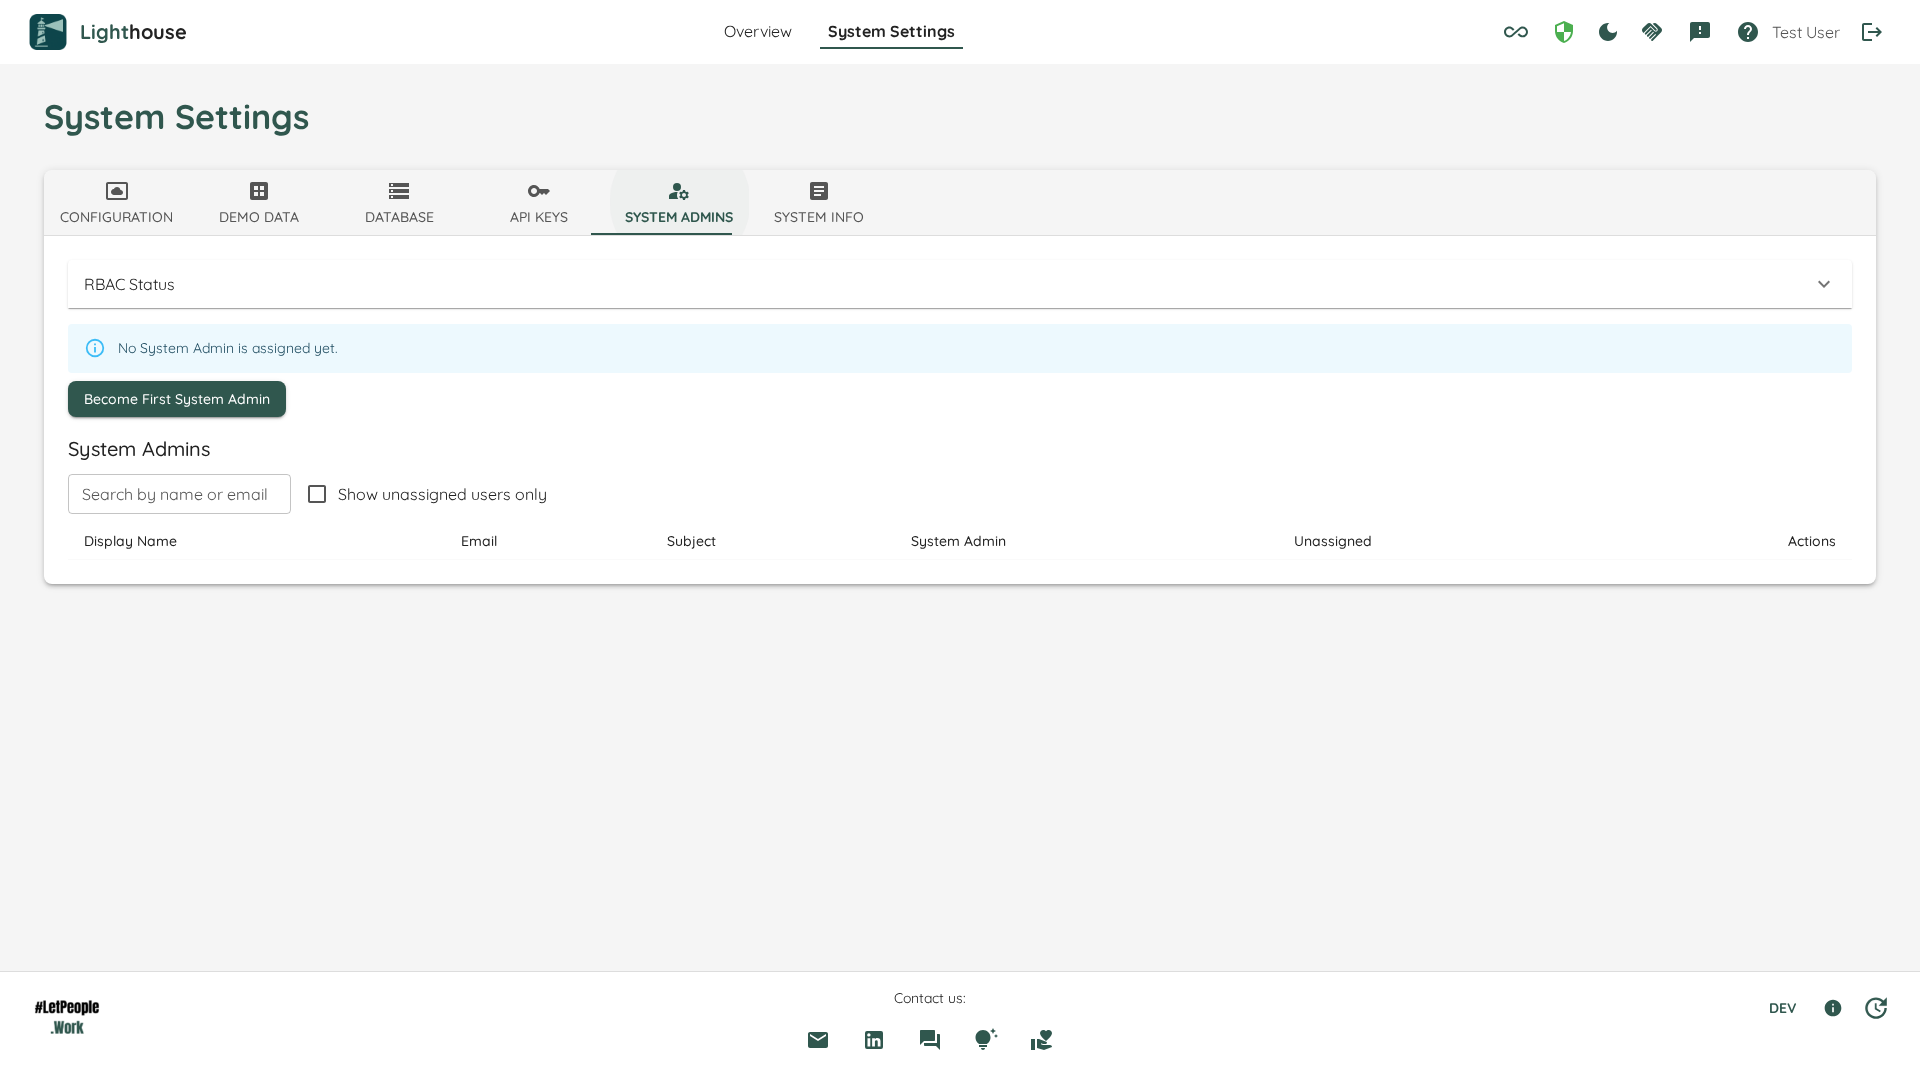
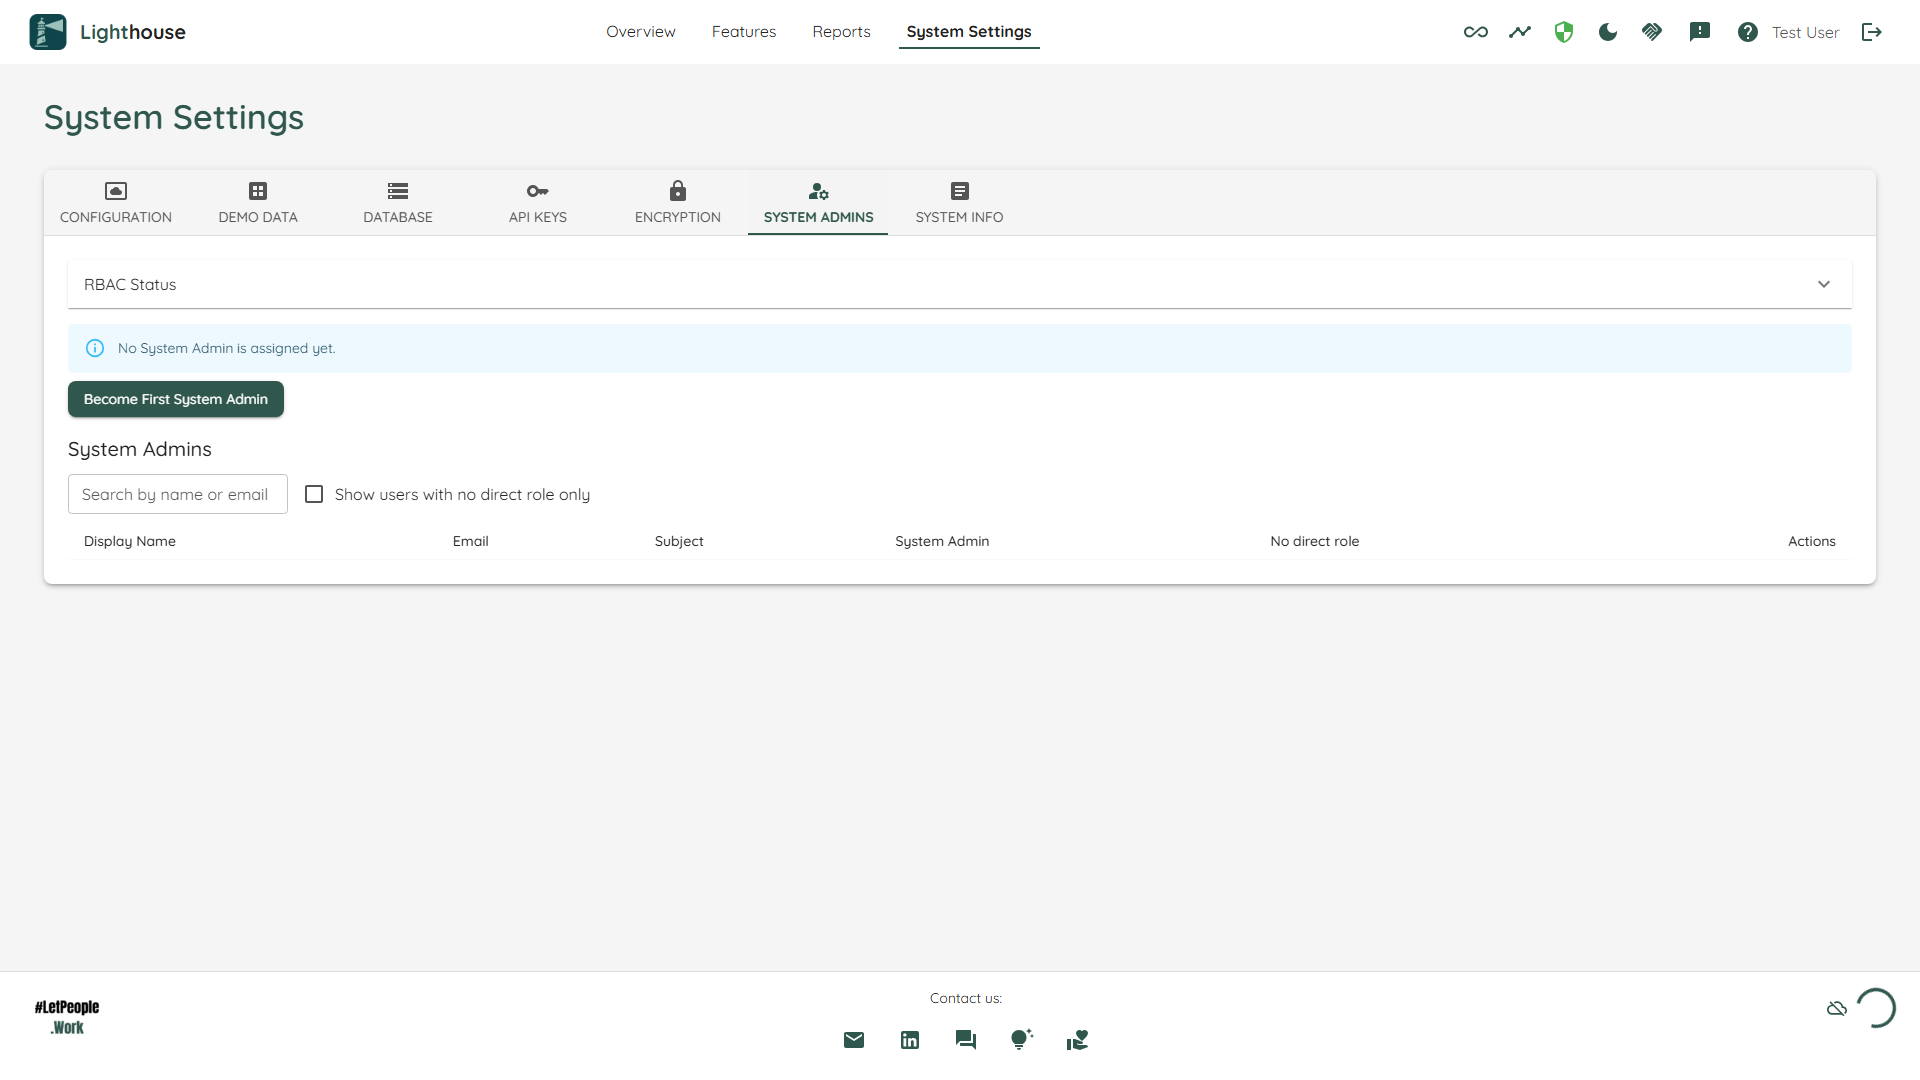
docs(access): regenerate the RBAC screenshots for system-wide rules
The Access settings screenshots now show the SSO Groups section with its
Role choice, Everyone signed in and the No direct role column.

The group-mapping screenshot test decided whether to become the first
System Admin before the page had loaded, so it skipped that step; since
the SSO Groups section now needs a System Admin, the add controls never
appeared. It now waits for either the bootstrap banner or the add button.

Claude-Session: https://claude.ai/code/session_01ToezcTpNE6sHewtrAq3CS3

diff --git a/Lighthouse.EndToEndTests/tests/specs/screenshots/AuthScreenshots.spec.ts b/Lighthouse.EndToEndTests/tests/specs/screenshots/AuthScreenshots.spec.ts
@@ -87,6 +87,9 @@ test.describe("@screenshot @auth", () => {
 			const settingsPage = await overview.lightHousePage.goToSettings();
 			const rbac = await settingsPage.goToRbacSettings();
 
+			await expect(
+				rbac.bootstrapBanner.or(rbac.addGroupMappingButton),
+			).toBeVisible();
 			if (await rbac.bootstrapBanner.isVisible()) {
 				await rbac.becomeFirstSystemAdmin();
 				await expect(rbac.usersTable).toBeVisible();
